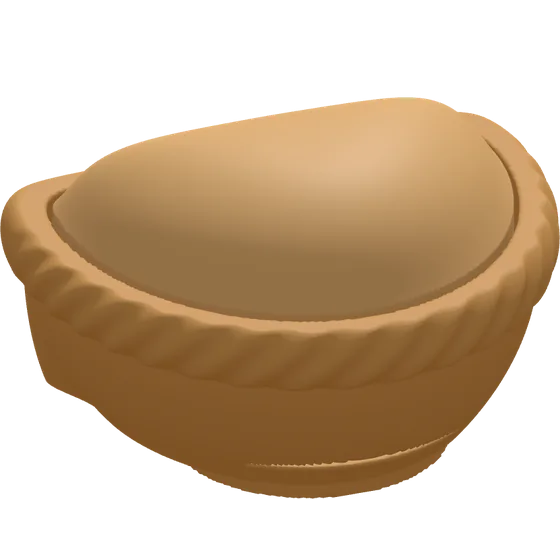
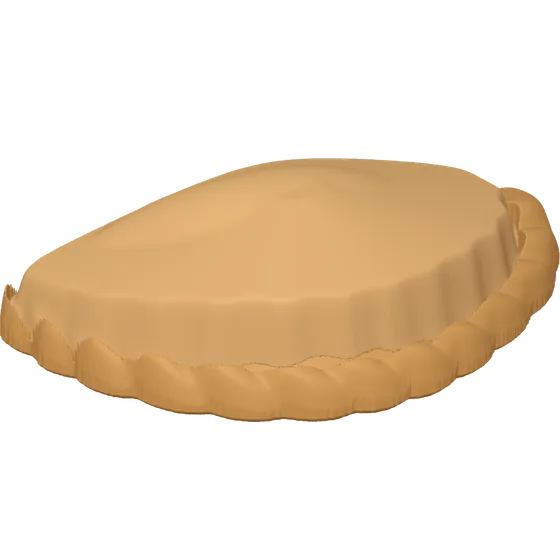
Empanada Pop v2.0: tamaño original del STL, cúpula levantada para el switch
Claude-Session: https://claude.ai/code/session_01CakWamoGNygWeoKn5u5X5H

diff --git a/clickly/index.html b/clickly/index.html
@@ -380,10 +380,10 @@ section{padding:clamp(4.5rem,9vw,8rem) 0}
 const IMGDIR='/clickly/img/';
 const IMG={},IMGT={};
 const POPS=[
- {id:'base',n:'Clickly Box',line:'base',c:'#2F6FE0',ct:'Click en la tapa',d:'Una cajita cuya tapa es el clicker. El modelo base, el que siempre está.'},
+ {id:'base',n:'Clickly Box',line:'base',c:'#2F6FE0',ct:'Click en la cúpula',d:'Una cajita cuya tapa es el clicker. El modelo base, el que siempre está.'},
  {id:'medialuna',n:'Medialuna Pop',line:'ar',c:'#5E9FDC',ct:'Click en el rollito del medio',d:'Una medialuna gordita, con sus rollitos y sus cuernos.',m:'40,2 × 30,8 × 28,2 mm'},
  {id:'alfajor',n:'Alfajor Pop',line:'ar',c:'#7B4B2A',ct:'Click en la galleta de arriba',d:'Dos galletas con dulce de leche, todo marrón.',local:1,m:'44,2 × 44,2 × 26,4 mm'},
- {id:'empanada',n:'Empanada Pop',line:'ar',c:'#C98A3C',ct:'Click en la tapa',d:'Una empanada gordita, con su repulgue. Apretás la tapa y hace clic.',local:1,m:'44,0 × 35,3 × 29,4 mm'},
+ {id:'empanada',n:'Empanada Pop',line:'ar',c:'#C98A3C',ct:'Click en la cúpula',d:'Una empanada con su repulgue. Apretás la cúpula y hace clic.',local:1,m:'80,0 × 44,3 × 27,0 mm'},
  {id:'pancake',n:'Pancake Pop',line:'bf',c:'#E8A33D',ct:'Click en el panqueque de arriba',d:'Una pila de panqueques con almíbar y una pastillita de manteca arriba.'},
  {id:'macaron',n:'Pink Macaron Pop',line:'sweet',c:'#EF97B1',ct:'Click en la tapita de arriba',d:'Un macaron con tapitas rosa pastel y relleno blanco.',m:'Ø42,4 × 29 mm'},
  {id:'candy',n:'Candy Pop',line:'sweet',c:'#CDBFF0',ct:'Click en el medio',d:'Un caramelo con su envoltorio y las puntas torcidas.',local:1,m:'70,6 × 30,8 × 26,7 mm'},
